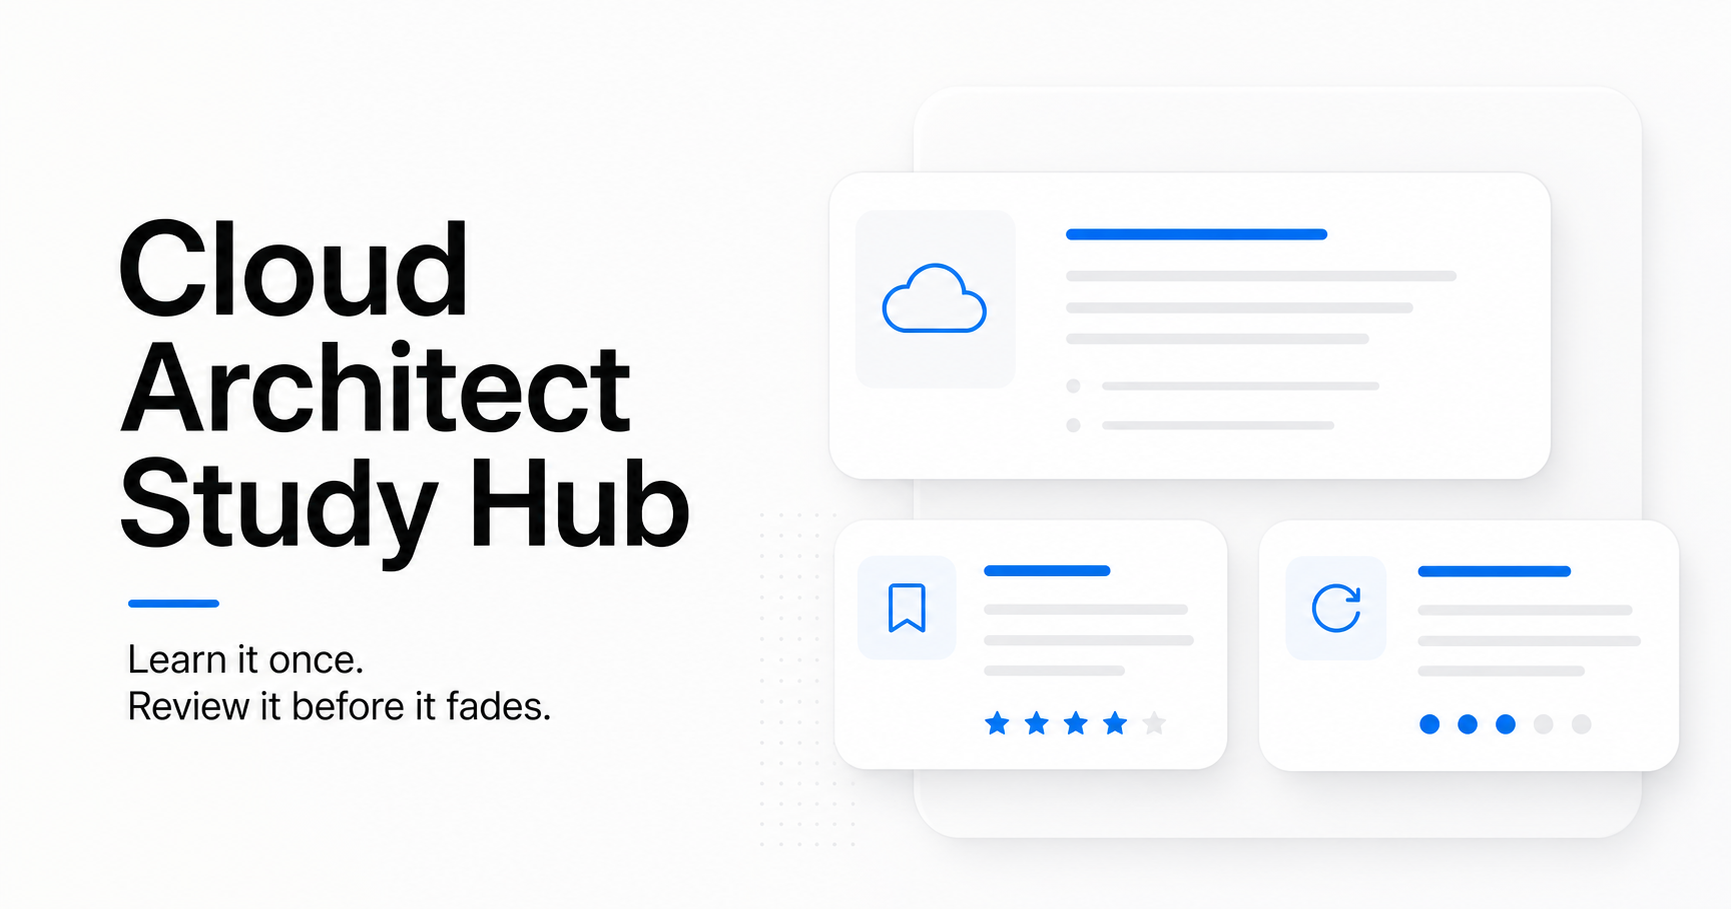
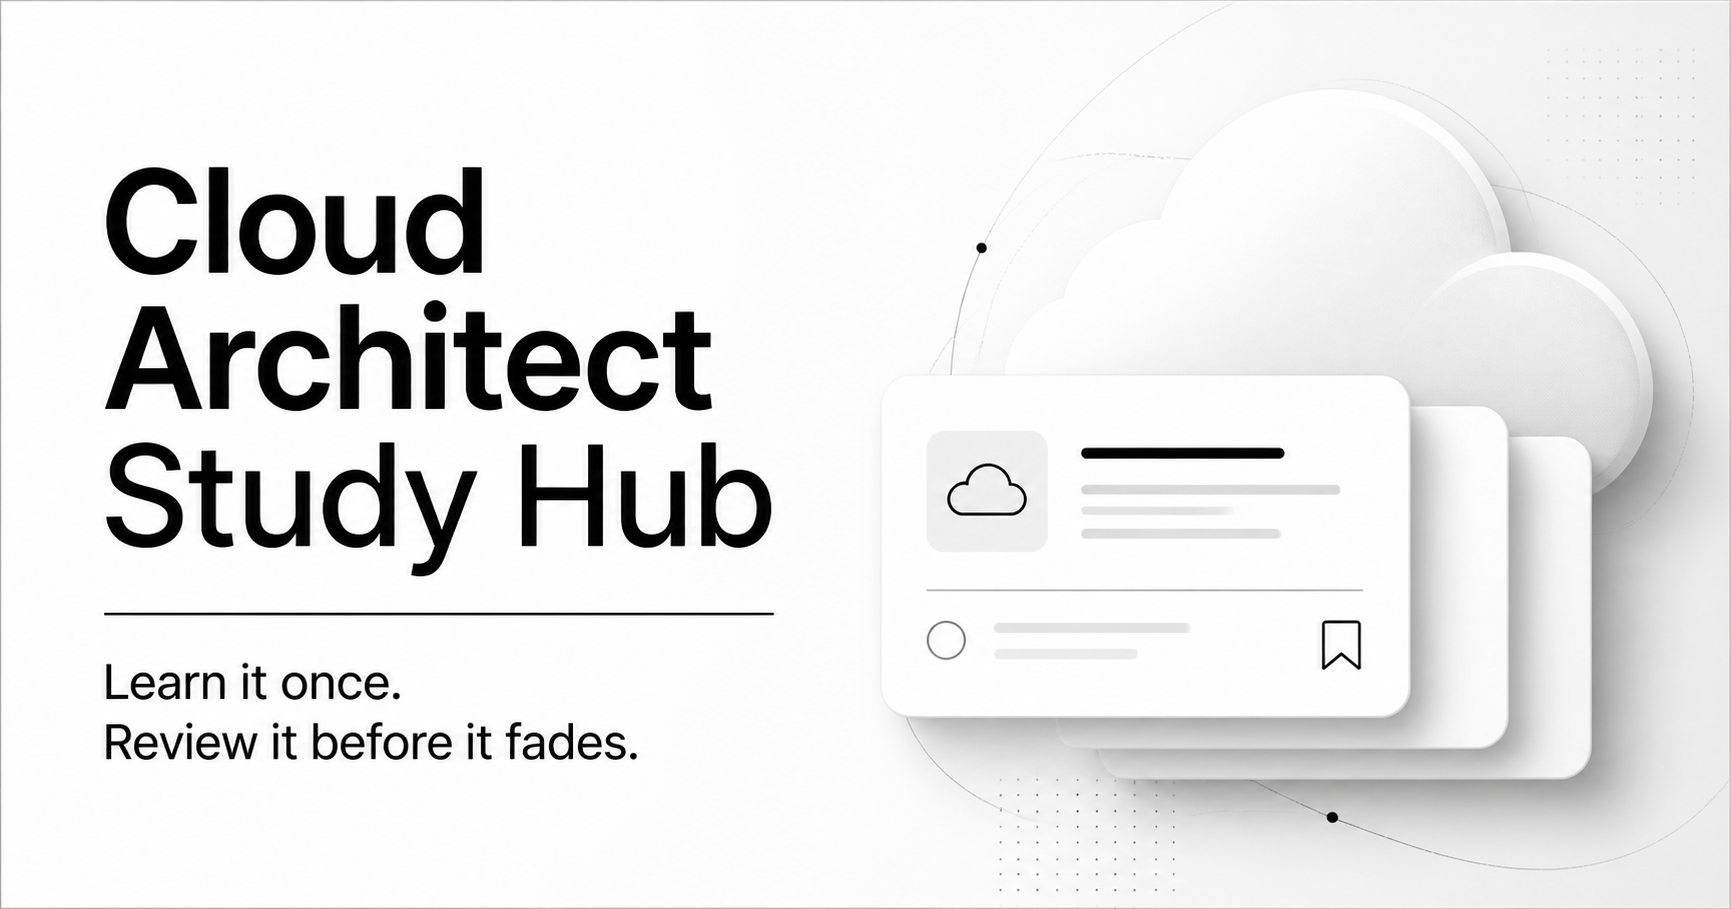
Apply monochrome visual theme

diff --git a/app/globals.css b/app/globals.css
@@ -4,13 +4,13 @@
   --text: #1d1d1f;
   --secondary: #6e6e73;
   --tertiary: #86868b;
-  --blue: #0071e3;
-  --blue-hover: #0077ed;
-  --blue-soft: #e8f2ff;
-  --red: #ff3b30;
-  --orange: #ff9500;
-  --green: #34c759;
-  --purple: #af52de;
+  --blue: #000000;
+  --blue-hover: #2c2c2e;
+  --blue-soft: #eeeeef;
+  --red: #000000;
+  --orange: #8e8e93;
+  --green: #1d1d1f;
+  --purple: #636366;
   --background: #f5f5f7;
   --surface: #ffffff;
   --surface-muted: #f2f2f7;
@@ -53,7 +53,7 @@ button:focus-visible,
 input:focus-visible,
 textarea:focus-visible,
 select:focus-visible {
-  outline: 4px solid rgba(0, 113, 227, 0.2);
+  outline: 4px solid rgba(0, 0, 0, 0.16);
   outline-offset: 2px;
 }
 
@@ -92,10 +92,10 @@ select:focus-visible {
 .welcome-icon {
   display: grid;
   place-items: center;
-  background: linear-gradient(145deg, #1686f7, #0066cc);
+  background: #000000;
   color: #fff;
   font-weight: 700;
-  box-shadow: 0 5px 15px rgba(0, 113, 227, 0.18);
+  box-shadow: 0 5px 15px rgba(0, 0, 0, 0.16);
 }
 
 .brand-mark {
@@ -321,7 +321,7 @@ select:focus-visible {
 }
 
 .chapter-item.active {
-  background: rgba(0, 113, 227, 0.1);
+  background: rgba(0, 0, 0, 0.07);
   box-shadow: none;
 }
 
@@ -334,7 +334,7 @@ select:focus-visible {
 }
 
 .confidence-2 { background: var(--orange); }
-.confidence-3 { background: #64a8e8; }
+.confidence-3 { background: #636366; }
 .confidence-4,
 .confidence-5 { background: var(--green); }
 
@@ -469,13 +469,13 @@ select:focus-visible {
 }
 
 .status-chip.reviewing {
-  background: #fff3d8;
-  color: #9a6400;
+  background: #e8e8ed;
+  color: #48484a;
 }
 
 .status-chip.mastered {
-  background: #e4f8e8;
-  color: #248a3d;
+  background: #d8d8dc;
+  color: #1d1d1f;
 }
 
 .due-label { color: var(--red); }
@@ -945,7 +945,7 @@ select:focus-visible {
 
 .confidence-options button.active strong,
 .confidence-options button.active span {
-  color: #005bb5;
+  color: #000000;
 }
 
 .complete-button {
@@ -961,10 +961,10 @@ select:focus-visible {
   padding: 11px 13px;
   align-items: center;
   gap: 15px;
-  border: 1px solid rgba(255, 59, 48, 0.18);
+  border: 1px solid rgba(0, 0, 0, 0.16);
   border-radius: 12px;
   background: rgba(255, 255, 255, 0.96);
-  color: #d70015;
+  color: #000000;
   box-shadow: var(--shadow-medium);
   font-size: 11px;
 }
@@ -972,7 +972,7 @@ select:focus-visible {
 .error-banner button {
   border: 0;
   background: transparent;
-  color: #d70015;
+  color: #000000;
   font-weight: 600;
 }
 
